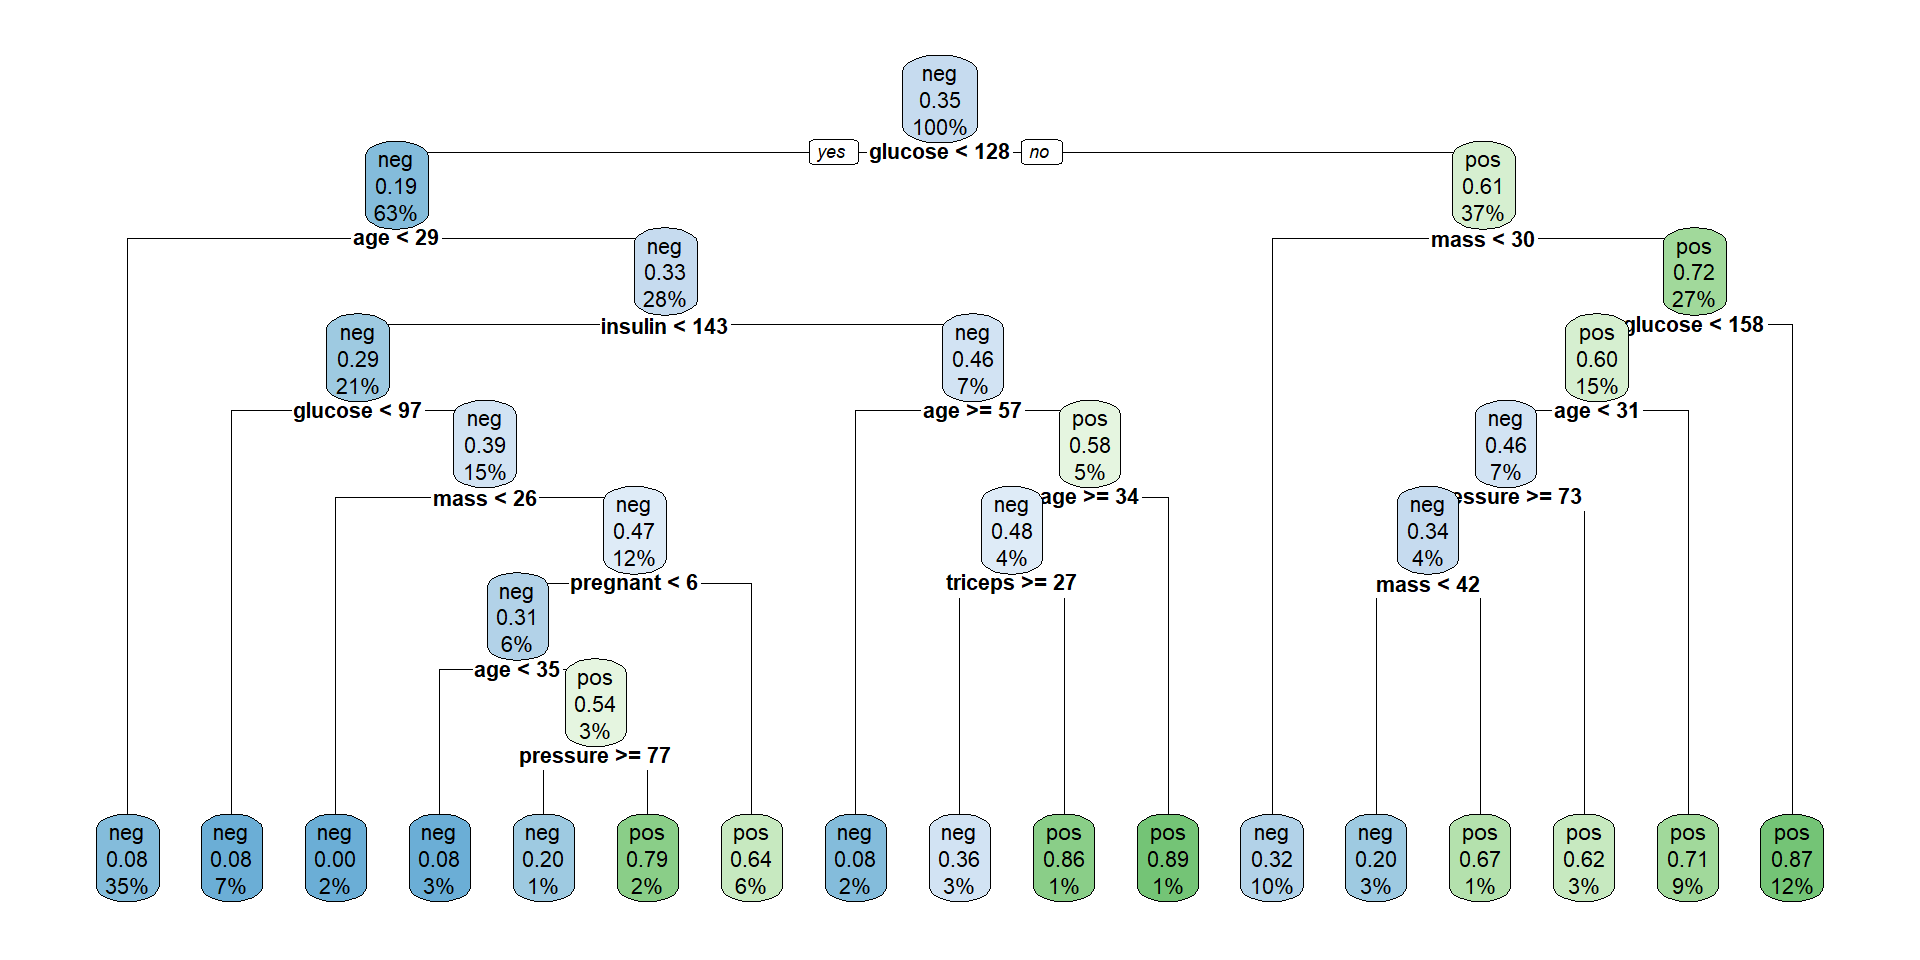
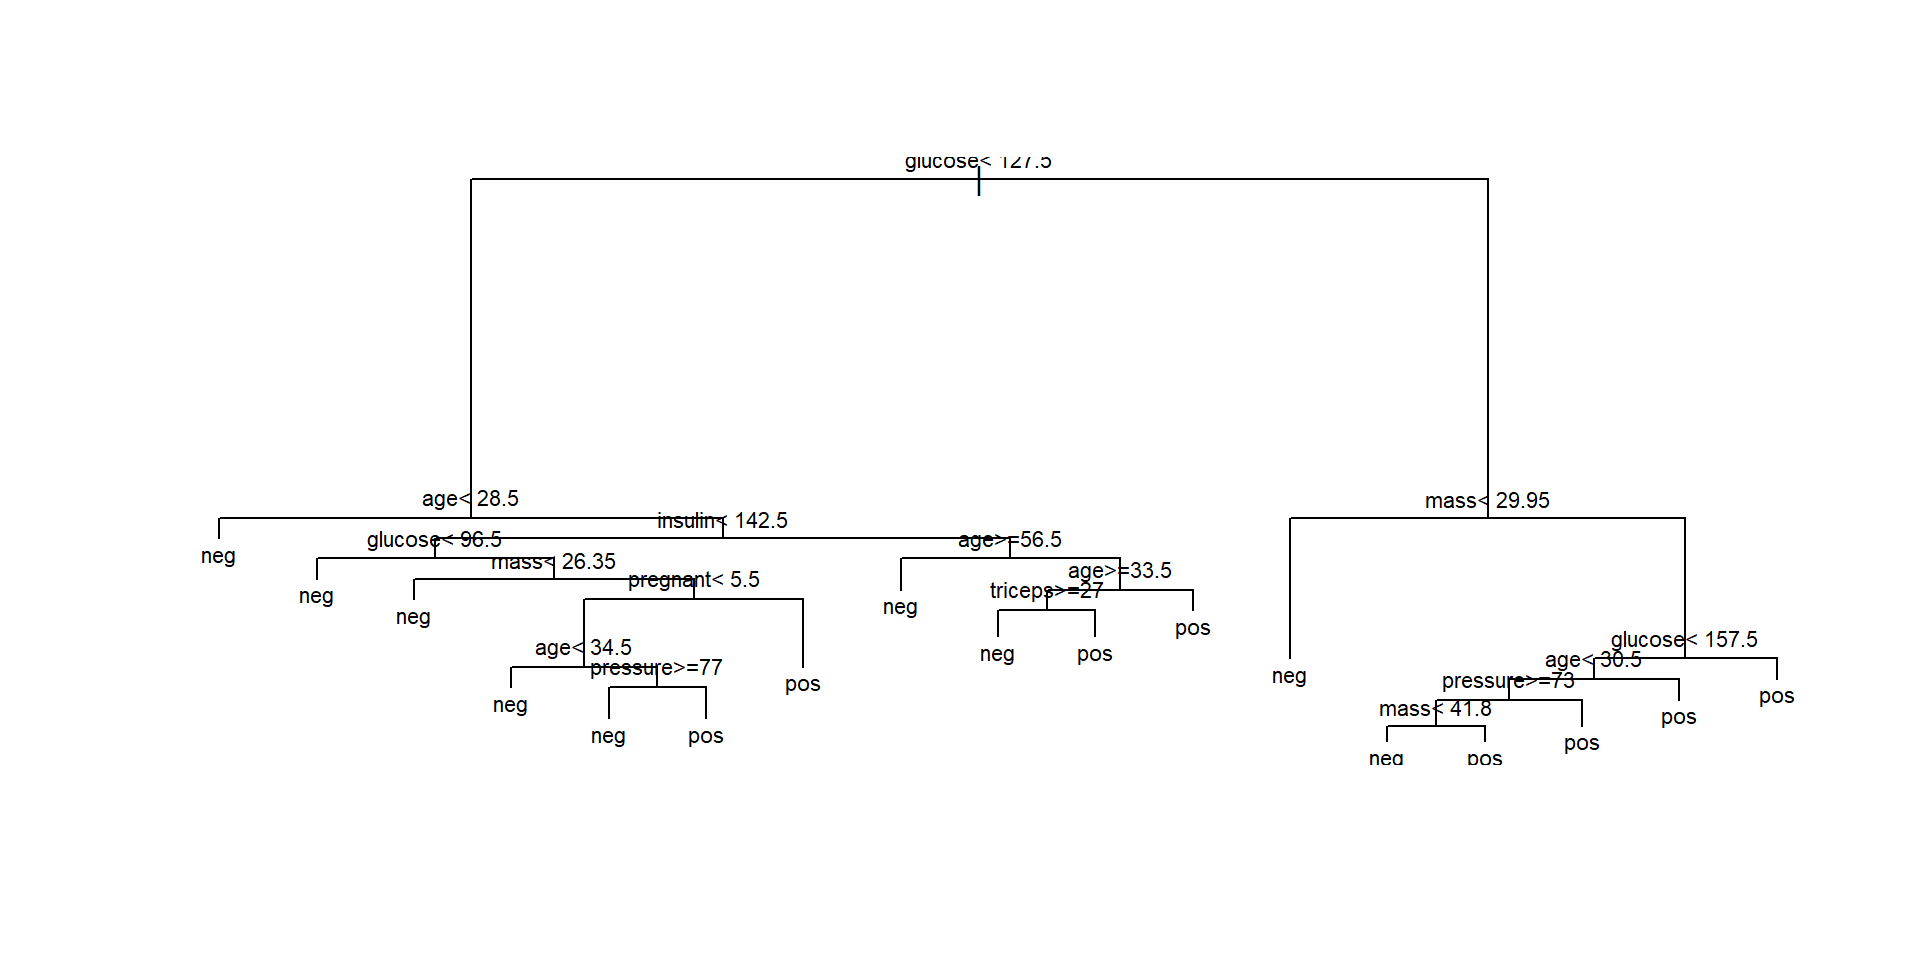
minor updates

diff --git a/1.1-DecisionTrees-Slides.html b/1.1-DecisionTrees-Slides.html
@@ -440,7 +440,7 @@ Alex Sanchez, Ferran Reverter and Esteban Vegas
 <div class="cell-output-display">
 <div class="quarto-figure quarto-figure-center">
 <figure>
-<p><img data-src="images/decTree4Hypertension.png" class="quarto-figure quarto-figure-center" style="width:80.0%"></p>
+<p><img data-src="images/decTree4HypertensionNew.png" class="quarto-figure quarto-figure-center" style="width:80.0%"></p>
 <figcaption>A doctor may classify patients at high or low cardiovascular risk using some type of decision tree</figcaption>
 </figure>
 </div>
@@ -483,15 +483,15 @@ Alex Sanchez, Ferran Reverter and Esteban Vegas
 <section id="more-about-context" class="slide level2">
 <h2>More about context</h2>
 <ul>
-<li>Decision trees are non parametric, data guided predictors, well suited in many situations such as:
+<li><p>Decision trees are non parametric, data guided predictors, well suited in many situations such as:</p>
 <ul>
 <li>Non-linear relationships.</li>
 <li>High-dimensional data.</li>
 <li>Interaction between variables exist.</li>
 <li>Mixed data types.</li>
 </ul></li>
-<li>They are not so appropriate for complex datasets, or complex problems, that require expert knowledge.</li>
-<li><em>Look for some examples of each situation!</em></li>
+<li><p>They are not so appropriate for complex datasets, or complex problems, that require expert knowledge.</p></li>
+<li><p><a href="https://g.co/gemini/share/781b7d88e03a">See here some examples of each situation!</a></p></li>
 </ul>
 </section>
 <section id="types-of-decision-trees" class="slide level2">
@@ -568,15 +568,6 @@ Alex Sanchez, Ferran Reverter and Esteban Vegas
 <p><br></p>
 <div class="font90">
 <table>
-<colgroup>
-<col style="width: 9%">
-<col style="width: 10%">
-<col style="width: 12%">
-<col style="width: 18%">
-<col style="width: 15%">
-<col style="width: 19%">
-<col style="width: 13%">
-</colgroup>
 <thead>
 <tr class="header">
 <th><strong>Package</strong></th>
@@ -590,7 +581,7 @@ Alex Sanchez, Ferran Reverter and Esteban Vegas
 </thead>
 <tbody>
 <tr class="odd">
-<td><strong><code>rpart</code></strong></td>
+<td><a href="https://cran.r-project.org/web/packages/rpart/index.html"><strong><code>rpart</code></strong></a></td>
 <td>RPART</td>
 <td>Medium to large</td>
 <td>Poor</td>
@@ -599,7 +590,7 @@ Alex Sanchez, Ferran Reverter and Esteban Vegas
 <td>Simple</td>
 </tr>
 <tr class="even">
-<td><strong><code>caret</code></strong></td>
+<td><a href="https://topepo.github.io/caret/"><strong><code>caret</code></strong></a></td>
 <td>Various</td>
 <td>Various</td>
 <td>Depends on algorithm</td>
@@ -608,7 +599,7 @@ Alex Sanchez, Ferran Reverter and Esteban Vegas
 <td>Complex</td>
 </tr>
 <tr class="odd">
-<td><strong><code>tree</code></strong></td>
+<td><a href="https://cran.r-project.org/web/packages/tree/index.html"><strong><code>tree</code></strong></a></td>
 <td>CART</td>
 <td>Small to medium</td>
 <td>Poor</td>
@@ -747,23 +738,71 @@ age      21.000 24.00000  29.0000  41.00000  81.00 ▇▃▁▁▁</code></pre>
 <span id="cb4-2"><a href=""></a><span class="fu">text</span>(model1, <span class="at">digits =</span> <span class="dv">3</span>, <span class="at">cex=</span><span class="fl">0.7</span>)</span></code><button title="Copy to Clipboard" class="code-copy-button"><i class="bi"></i></button></pre></div>
 </div>
 </section>
-<section id="a-simple-tree-to-predict-diabetes" class="slide level2">
-<h2>A simple tree to predict diabetes</h2>
+<section id="viewing-the-tree-as-text" class="slide level2">
+<h2>Viewing the tree as text</h2>
+<div class="font40">
+<div class="cell">
+<div class="cell-output cell-output-stdout">
+<pre><code>n= 768 
+
+node), split, n, loss, yval, (yprob)
+      * denotes terminal node
+
+  1) root 768 268 neg (0.65104167 0.34895833)  
+    2) glucose&lt; 127.5 485  94 neg (0.80618557 0.19381443)  
+      4) age&lt; 28.5 271  23 neg (0.91512915 0.08487085) *
+      5) age&gt;=28.5 214  71 neg (0.66822430 0.33177570)  
+       10) insulin&lt; 142.5 164  48 neg (0.70731707 0.29268293)  
+         20) glucose&lt; 96.5 51   4 neg (0.92156863 0.07843137) *
+         21) glucose&gt;=96.5 113  44 neg (0.61061947 0.38938053)  
+           42) mass&lt; 26.35 19   0 neg (1.00000000 0.00000000) *
+           43) mass&gt;=26.35 94  44 neg (0.53191489 0.46808511)  
+             86) pregnant&lt; 5.5 49  15 neg (0.69387755 0.30612245)  
+              172) age&lt; 34.5 25   2 neg (0.92000000 0.08000000) *
+              173) age&gt;=34.5 24  11 pos (0.45833333 0.54166667)  
+                346) pressure&gt;=77 10   2 neg (0.80000000 0.20000000) *
+                347) pressure&lt; 77 14   3 pos (0.21428571 0.78571429) *
+             87) pregnant&gt;=5.5 45  16 pos (0.35555556 0.64444444) *
+       11) insulin&gt;=142.5 50  23 neg (0.54000000 0.46000000)  
+         22) age&gt;=56.5 12   1 neg (0.91666667 0.08333333) *
+         23) age&lt; 56.5 38  16 pos (0.42105263 0.57894737)  
+           46) age&gt;=33.5 29  14 neg (0.51724138 0.48275862)  
+             92) triceps&gt;=27 22   8 neg (0.63636364 0.36363636) *
+             93) triceps&lt; 27 7   1 pos (0.14285714 0.85714286) *
+           47) age&lt; 33.5 9   1 pos (0.11111111 0.88888889) *
+    3) glucose&gt;=127.5 283 109 pos (0.38515901 0.61484099)  
+      6) mass&lt; 29.95 75  24 neg (0.68000000 0.32000000) *
+      7) mass&gt;=29.95 208  58 pos (0.27884615 0.72115385)  
+       14) glucose&lt; 157.5 116  46 pos (0.39655172 0.60344828)  
+         28) age&lt; 30.5 50  23 neg (0.54000000 0.46000000)  
+           56) pressure&gt;=73 29  10 neg (0.65517241 0.34482759)  
+            112) mass&lt; 41.8 20   4 neg (0.80000000 0.20000000) *
+            113) mass&gt;=41.8 9   3 pos (0.33333333 0.66666667) *
+           57) pressure&lt; 73 21   8 pos (0.38095238 0.61904762) *
+         29) age&gt;=30.5 66  19 pos (0.28787879 0.71212121) *
+       15) glucose&gt;=157.5 92  12 pos (0.13043478 0.86956522) *</code></pre>
+</div>
+</div>
+</div>
+<p>This representation can be used to classify some values following the decisions from top to bottom.</p>
+</section>
+<section id="plotting-the-tree-1" class="slide level2">
+<h2>Plotting the tree (1)</h2>
 <div class="cell">
 <div class="cell-output-display">
 <div class="quarto-figure quarto-figure-center">
 <figure>
-<p><img data-src="1.1-DecisionTrees-Slides_files/figure-revealjs/unnamed-chunk-6-1.png" style="height:10cm" width="960"></p>
+<p><img data-src="1.1-DecisionTrees-Slides_files/figure-revealjs/unnamed-chunk-7-1.png" style="height:10cm" width="960"></p>
 <figcaption>Even without domain expertise the model seems <em>reasonable</em></figcaption>
 </figure>
 </div>
 </div>
 </div>
 </section>
-<section id="a-nicer-version" class="slide level2">
-<h2>A nicer version</h2>
+<section id="plotting-the-tree-nicer" class="slide level2">
+<h2>Plotting the tree (Nicer)</h2>
 
-<img data-src="1.1-DecisionTrees-Slides_files/figure-revealjs/unnamed-chunk-7-1.png" width="960" class="r-stretch"></section>
+<img data-src="1.1-DecisionTrees-Slides_files/figure-revealjs/unnamed-chunk-8-1.png" width="960" class="r-stretch"></section>
 <section id="individual-prediction" class="slide level2">
 <h2>Individual prediction</h2>
 <p>Consider individuals 521 and 562</p>
@@ -792,8 +831,8 @@ Levels: neg pos</code></pre>
 <li>It is straightforward to obtain a simple performance measure.</li>
 </ul>
 <div class="cell">
-<div class="sourceCode cell-code" id="cb7"><pre class="sourceCode numberSource r number-lines code-with-copy"><code class="sourceCode r"><span id="cb7-1"><a href=""></a>predicted.classes<span class="ot">&lt;-</span> <span class="fu">predict</span>(model1, PimaIndiansDiabetes2, <span class="st">"class"</span>)</span>
-<span id="cb7-2"><a href=""></a><span class="fu">mean</span>(predicted.classes <span class="sc">==</span> PimaIndiansDiabetes2<span class="sc">$</span>diabetes)</span></code><button title="Copy to Clipboard" class="code-copy-button"><i class="bi"></i></button></pre></div>
+<div class="sourceCode cell-code" id="cb8"><pre class="sourceCode numberSource r number-lines code-with-copy"><code class="sourceCode r"><span id="cb8-1"><a href=""></a>predicted.classes<span class="ot">&lt;-</span> <span class="fu">predict</span>(model1, PimaIndiansDiabetes2, <span class="st">"class"</span>)</span>
+<span id="cb8-2"><a href=""></a><span class="fu">mean</span>(predicted.classes <span class="sc">==</span> PimaIndiansDiabetes2<span class="sc">$</span>diabetes)</span></code><button title="Copy to Clipboard" class="code-copy-button"><i class="bi"></i></button></pre></div>
 <div class="cell-output cell-output-stdout">
 <pre><code>[1] 0.8294271</code></pre>
 </div>
@@ -1076,18 +1115,33 @@ Levels: neg pos</code></pre>
 </section>
 <section id="tb-1.2.5---some-impurity-functions" class="slide level2 scrollable">
 <h2>TB 1.2.5 - Some Impurity Functions</h2>
-<p>Commonly used impurity functions for classification trees:</p>
+<p>Common impurity functions for classification trees.</p>
+<p>For node <span class="math inline">\(t\)</span>, the node information function <span class="math inline">\(i(t)\)</span> may be defined by</p>
 <ol type="1">
-<li><strong>Entropy function</strong>: <span class="math inline">\(\sum_{j=1}^{K} p_{j} \log \frac{1}{p_{j}}=-\sum_{j=1}^{K} p_{j} \log p_{j}\)</span>.</li>
+<li><strong>Entropy function</strong>: <span class="math inline">\(-\sum_{i=1}^K p(k\vert t)\log p(k\vert t)\)</span>.</li>
 </ol>
 <p>If <span class="math inline">\(p_{j}=0\)</span>, use the limit <span class="math inline">\(\lim p_{j} \rightarrow \log p_{j}=0\)</span>.</p>
 <ol start="2" type="1">
-<li><p><strong>Misclassification rate</strong>: <span class="math inline">\(1-\max _{j} p_{j}\)</span>.</p></li>
-<li><p><strong>Gini index</strong>: <span class="math inline">\(\sum_{j=1}^{K} p_{j}\left(1-p_{j}\right)=1-\sum_{j=1}^{K} p_{j}^{2}\)</span>.</p></li>
+<li><p><strong>Misclassification rate</strong>: <span class="math inline">\(\sum_{i=1}^K p(k\vert t)(1-p(k\vert t)),\)</span></p></li>
+<li><p><strong>Gini index</strong>: <span class="math inline">\(1-\sum_{i=1}^K p(k\vert t)^2\)</span>.</p></li>
 </ol>
 </section>
-<section id="tb-1.2.6---impurity-measures-for-a-split" class="slide level2">
-<h2>TB 1.2.6 - Impurity measures for a split</h2>
+<section id="tb-1.2.5-impurity-functions-behavior" class="slide level2">
+<h2>TB 1.2.5 Impurity functions behavior</h2>
+<center>
+<img data-src="images/impurity.jpg" style="width:75.0%">
+</center>
+<div class="tiny">
+<p>Node impurity functions for the two-class case.</p>
+<ul>
+<li>The entropy function (rescaled) is the red curve,</li>
+<li>The Gini index is the green curve, and</li>
+<li>The resubstitution estimate of the misclassification rate is the blue curve.</li>
+</ul>
+</div>
+</section>
+<section id="tb-1.2.6---impurity-for-a-split" class="slide level2">
+<h2>TB 1.2.6 - Impurity for a split</h2>
 <ul>
 <li>Definition: Given an impurity function <span class="math inline">\(\Phi\)</span>, define the impurity measure, denoted as <span class="math inline">\(i(t)\)</span>, of a node <span class="math inline">\(t\)</span> as:</li>
 </ul>
@@ -1137,7 +1191,9 @@ i(t)=\phi(p(1 \mid t), p(2 \mid t), \ldots, p(K \mid t))
 <li>Define a criteria for stop splitting a tree (see below).</li>
 </ul></li>
 </ul>
-<p>##TB 1.2.10 - Entropy as an impurity measure</p>
+</section>
+<section id="tb-1.2.10---entropy-as-an-impurity-measure" class="slide level2">
+<h2>TB 1.2.10 - Entropy as an impurity measure</h2>
 <ul>
 <li>The entropy of a node, <span class="math inline">\(t\)</span>, that is split in <span class="math inline">\(n\)</span> child nodes <span class="math inline">\(t_1\)</span>, <span class="math inline">\(t_2\)</span>, …, <span class="math inline">\(t_n\)</span>, is:</li>
 </ul>
@@ -1403,15 +1459,15 @@ R_\alpha(T) =R(T)+\alpha|T|
 <section id="non-linear-relationships" class="slide level2 smaller">
 <h2>Non linear relationships!</h2>
 <div class="cell">
-<div class="sourceCode cell-code" id="cb9"><pre class="sourceCode numberSource r number-lines code-with-copy"><code class="sourceCode r"><span id="cb9-1"><a href=""></a>aq <span class="ot">&lt;-</span> datasets<span class="sc">::</span>airquality</span>
-<span id="cb9-2"><a href=""></a>color <span class="ot">&lt;-</span> <span class="fu">adjustcolor</span>(<span class="st">"forestgreen"</span>, <span class="at">alpha.f =</span> <span class="fl">0.5</span>)</span>
-<span id="cb9-3"><a href=""></a>ps <span class="ot">&lt;-</span> <span class="cf">function</span>(x, y, ...) {  <span class="co"># custom panel function</span></span>
-<span id="cb9-4"><a href=""></a>  <span class="fu">panel.smooth</span>(x, y, <span class="at">col =</span> color, <span class="at">col.smooth =</span> <span class="st">"black"</span>, <span class="at">cex =</span> <span class="fl">0.7</span>, <span class="at">lwd =</span> <span class="dv">2</span>)</span>
-<span id="cb9-5"><a href=""></a>}</span>
-<span id="cb9-6"><a href=""></a><span class="fu">pairs</span>(aq, <span class="at">cex =</span> <span class="fl">0.7</span>, <span class="at">upper.panel =</span> ps, <span class="at">col =</span> color)</span></code><button title="Copy to Clipboard" class="code-copy-button"><i class="bi"></i></button></pre></div>
+<div class="sourceCode cell-code" id="cb10"><pre class="sourceCode numberSource r number-lines code-with-copy"><code class="sourceCode r"><span id="cb10-1"><a href=""></a>aq <span class="ot">&lt;-</span> datasets<span class="sc">::</span>airquality</span>
+<span id="cb10-2"><a href=""></a>color <span class="ot">&lt;-</span> <span class="fu">adjustcolor</span>(<span class="st">"forestgreen"</span>, <span class="at">alpha.f =</span> <span class="fl">0.5</span>)</span>
+<span id="cb10-3"><a href=""></a>ps <span class="ot">&lt;-</span> <span class="cf">function</span>(x, y, ...) {  <span class="co"># custom panel function</span></span>
+<span id="cb10-4"><a href=""></a>  <span class="fu">panel.smooth</span>(x, y, <span class="at">col =</span> color, <span class="at">col.smooth =</span> <span class="st">"black"</span>, <span class="at">cex =</span> <span class="fl">0.7</span>, <span class="at">lwd =</span> <span class="dv">2</span>)</span>
+<span id="cb10-5"><a href=""></a>}</span>
+<span id="cb10-6"><a href=""></a><span class="fu">pairs</span>(aq, <span class="at">cex =</span> <span class="fl">0.7</span>, <span class="at">upper.panel =</span> ps, <span class="at">col =</span> color)</span></code><button title="Copy to Clipboard" class="code-copy-button"><i class="bi"></i></button></pre></div>
 </div>
 
-<img data-src="1.1-DecisionTrees-Slides_files/figure-revealjs/unnamed-chunk-20-1.png" class="quarto-figure quarto-figure-center r-stretch" width="960"></section>
+<img data-src="1.1-DecisionTrees-Slides_files/figure-revealjs/unnamed-chunk-21-1.png" class="quarto-figure quarto-figure-center r-stretch" width="960"></section>
 <section id="building-the-tree-1-splitting" class="slide level2">
 <h2>Building the tree (1): Splitting</h2>
 <ul>
@@ -1465,13 +1521,13 @@ R_1(j, s)=\left\{X \mid X_j&lt;s\right\} \text { and } R_2(j, s)=\left\{X \mid X
 <section id="example-a-regression-tree" class="slide level2">
 <h2>Example: A regression tree</h2>
 <div class="cell">
-<div class="sourceCode cell-code" id="cb10"><pre class="sourceCode numberSource r number-lines code-with-copy"><code class="sourceCode r"><span id="cb10-1"><a href=""></a><span class="fu">set.seed</span>(<span class="dv">123</span>)</span>
-<span id="cb10-2"><a href=""></a>train <span class="ot">&lt;-</span> <span class="fu">sample</span>(<span class="dv">1</span><span class="sc">:</span><span class="fu">nrow</span>(aq), <span class="at">size =</span> <span class="fu">nrow</span>(aq)<span class="sc">*</span><span class="fl">0.7</span>)</span>
-<span id="cb10-3"><a href=""></a>aq_train <span class="ot">&lt;-</span> aq[train,]</span>
-<span id="cb10-4"><a href=""></a>aq_test  <span class="ot">&lt;-</span> aq[<span class="sc">-</span>train,]</span>
-<span id="cb10-5"><a href=""></a>aq_regresion <span class="ot">&lt;-</span> tree<span class="sc">::</span><span class="fu">tree</span>(<span class="at">formula =</span> Ozone <span class="sc">~</span> ., </span>
-<span id="cb10-6"><a href=""></a>                           <span class="at">data =</span> aq_train, <span class="at">split =</span> <span class="st">"deviance"</span>)</span>
-<span id="cb10-7"><a href=""></a><span class="fu">summary</span>(aq_regresion)</span></code><button title="Copy to Clipboard" class="code-copy-button"><i class="bi"></i></button></pre></div>
+<div class="sourceCode cell-code" id="cb11"><pre class="sourceCode numberSource r number-lines code-with-copy"><code class="sourceCode r"><span id="cb11-1"><a href=""></a><span class="fu">set.seed</span>(<span class="dv">123</span>)</span>
+<span id="cb11-2"><a href=""></a>train <span class="ot">&lt;-</span> <span class="fu">sample</span>(<span class="dv">1</span><span class="sc">:</span><span class="fu">nrow</span>(aq), <span class="at">size =</span> <span class="fu">nrow</span>(aq)<span class="sc">*</span><span class="fl">0.7</span>)</span>
+<span id="cb11-3"><a href=""></a>aq_train <span class="ot">&lt;-</span> aq[train,]</span>
+<span id="cb11-4"><a href=""></a>aq_test  <span class="ot">&lt;-</span> aq[<span class="sc">-</span>train,]</span>
+<span id="cb11-5"><a href=""></a>aq_regresion <span class="ot">&lt;-</span> tree<span class="sc">::</span><span class="fu">tree</span>(<span class="at">formula =</span> Ozone <span class="sc">~</span> ., </span>
+<span id="cb11-6"><a href=""></a>                           <span class="at">data =</span> aq_train, <span class="at">split =</span> <span class="st">"deviance"</span>)</span>
+<span id="cb11-7"><a href=""></a><span class="fu">summary</span>(aq_regresion)</span></code><button title="Copy to Clipboard" class="code-copy-button"><i class="bi"></i></button></pre></div>
 <div class="cell-output cell-output-stdout">
 <pre><code>
 Regression tree:
@@ -1489,7 +1545,7 @@ Distribution of residuals:
 <section id="example-plot-the-tree" class="slide level2">
 <h2>Example: Plot the tree</h2>
 
-<img data-src="1.1-DecisionTrees-Slides_files/figure-revealjs/unnamed-chunk-23-1.png" width="960" class="r-stretch"></section></section>
+<img data-src="1.1-DecisionTrees-Slides_files/figure-revealjs/unnamed-chunk-24-1.png" width="960" class="r-stretch"></section></section>
 <section>
 <section id="error-estimation-and-optimization-for-regression-trees" class="title-slide slide level1 center">
 <h1>Error estimation and optimization for regression trees</h1>
@@ -1535,13 +1591,13 @@ Distribution of residuals:
 <section id="example-prune-the-tree" class="slide level2">
 <h2>Example: Prune the tree</h2>
 <div class="cell">
-<div class="sourceCode cell-code" id="cb12"><pre class="sourceCode numberSource r number-lines code-with-copy"><code class="sourceCode r"><span id="cb12-1"><a href=""></a>cv_aq <span class="ot">&lt;-</span> tree<span class="sc">::</span><span class="fu">cv.tree</span>(aq_regresion, <span class="at">K =</span> <span class="dv">5</span>)</span>
-<span id="cb12-2"><a href=""></a>optimal_size <span class="ot">&lt;-</span>  <span class="fu">rev</span>(cv_aq<span class="sc">$</span>size)[<span class="fu">which.min</span>(<span class="fu">rev</span>(cv_aq<span class="sc">$</span>dev))]</span>
-<span id="cb12-3"><a href=""></a>aq_final_tree <span class="ot">&lt;-</span> tree<span class="sc">::</span><span class="fu">prune.tree</span>(</span>
-<span id="cb12-4"><a href=""></a>                 <span class="at">tree =</span> aq_regresion,</span>
-<span id="cb12-5"><a href=""></a>                 <span class="at">best =</span> optimal_size</span>
-<span id="cb12-6"><a href=""></a>               )</span>
-<span id="cb12-7"><a href=""></a><span class="fu">summary</span>(aq_final_tree)</span></code><button title="Copy to Clipboard" class="code-copy-button"><i class="bi"></i></button></pre></div>
+<div class="sourceCode cell-code" id="cb13"><pre class="sourceCode numberSource r number-lines code-with-copy"><code class="sourceCode r"><span id="cb13-1"><a href=""></a>cv_aq <span class="ot">&lt;-</span> tree<span class="sc">::</span><span class="fu">cv.tree</span>(aq_regresion, <span class="at">K =</span> <span class="dv">5</span>)</span>
+<span id="cb13-2"><a href=""></a>optimal_size <span class="ot">&lt;-</span>  <span class="fu">rev</span>(cv_aq<span class="sc">$</span>size)[<span class="fu">which.min</span>(<span class="fu">rev</span>(cv_aq<span class="sc">$</span>dev))]</span>
+<span id="cb13-3"><a href=""></a>aq_final_tree <span class="ot">&lt;-</span> tree<span class="sc">::</span><span class="fu">prune.tree</span>(</span>
+<span id="cb13-4"><a href=""></a>                 <span class="at">tree =</span> aq_regresion,</span>
+<span id="cb13-5"><a href=""></a>                 <span class="at">best =</span> optimal_size</span>
+<span id="cb13-6"><a href=""></a>               )</span>
+<span id="cb13-7"><a href=""></a><span class="fu">summary</span>(aq_final_tree)</span></code><button title="Copy to Clipboard" class="code-copy-button"><i class="bi"></i></button></pre></div>
 <div class="cell-output cell-output-stdout">
 <pre><code>
 Regression tree:

diff --git a/README.html b/README.html
@@ -464,6 +464,8 @@ Publications.</p></li>
 </div>
 <div id="some-interesting-online-resources" class="section level2">
 <h2>Some interesting online resources</h2>
+<p>-<a href="https://www.youtube.com/playlist?list=PLdKd-j64gDcC5TCZEqODMZtAotCfm5Zkh">Decision
+Trees free course (9 videos). By Analytics Vidhya</a></p>
 <ul>
 <li><p><a href="https://online.stat.psu.edu/stat508/">Applied Data
 Mining and Statistical Learning (Penn Statte-University)</a></p></li>

diff --git a/README.md b/README.md
@@ -86,6 +86,8 @@ They can be tuned in a much more automatical way and have been applied to many c
 
 ## Some interesting online resources
 
+-[Decision Trees free course (9 videos). By Analytics Vidhya](https://www.youtube.com/playlist?list=PLdKd-j64gDcC5TCZEqODMZtAotCfm5Zkh)
+
 - [Applied Data Mining and Statistical Learning (Penn Statte-University)](https://online.stat.psu.edu/stat508/)
 
 - [R for statistical learning](https://daviddalpiaz.github.io/r4sl/)
